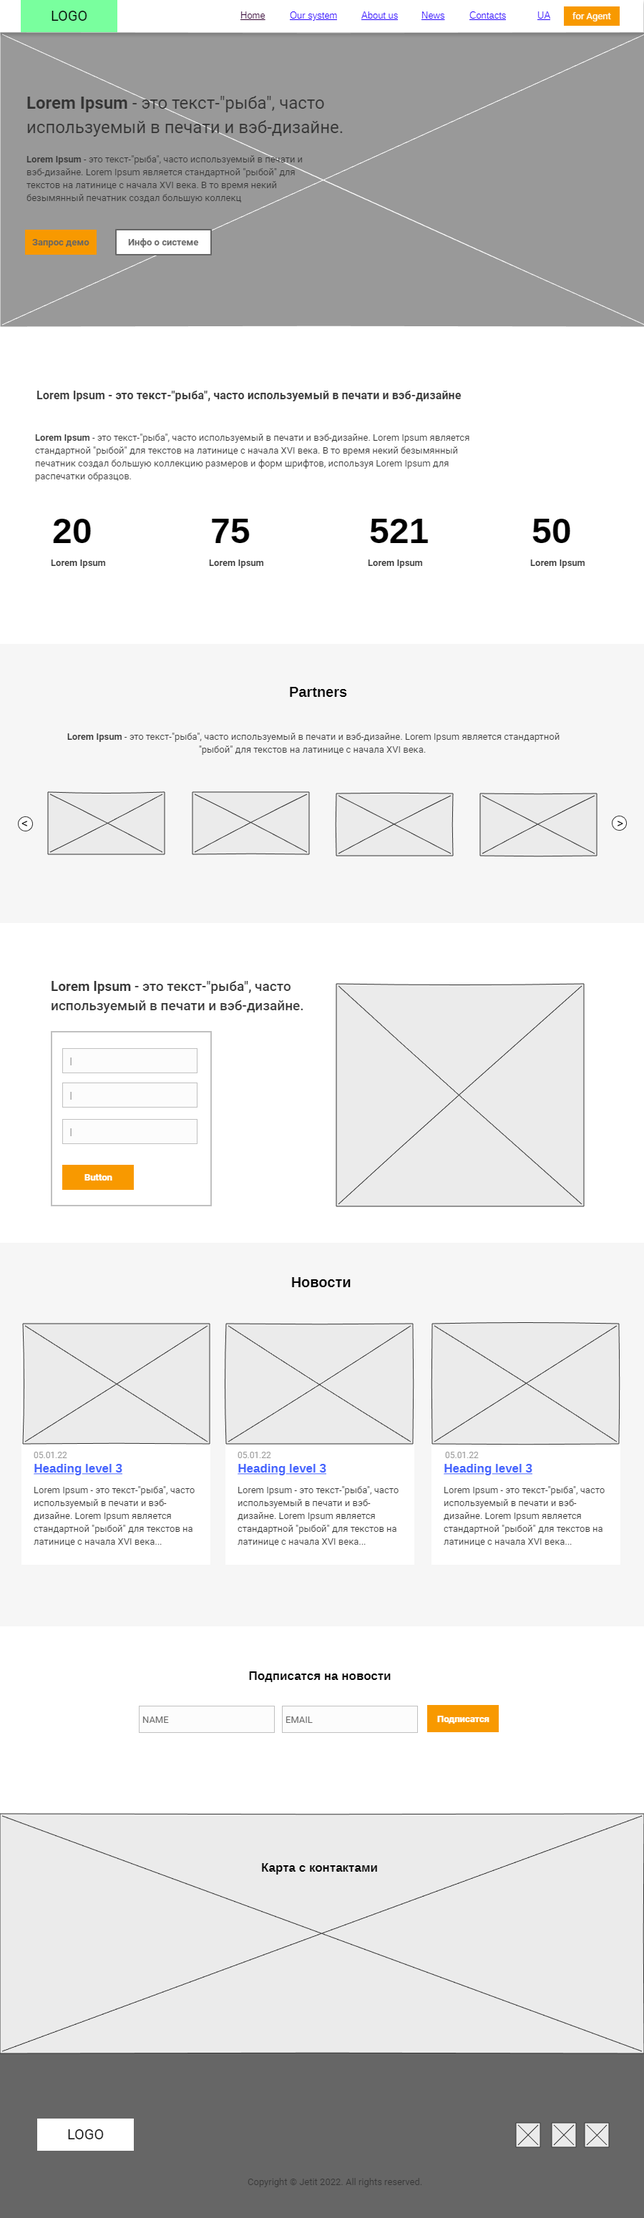
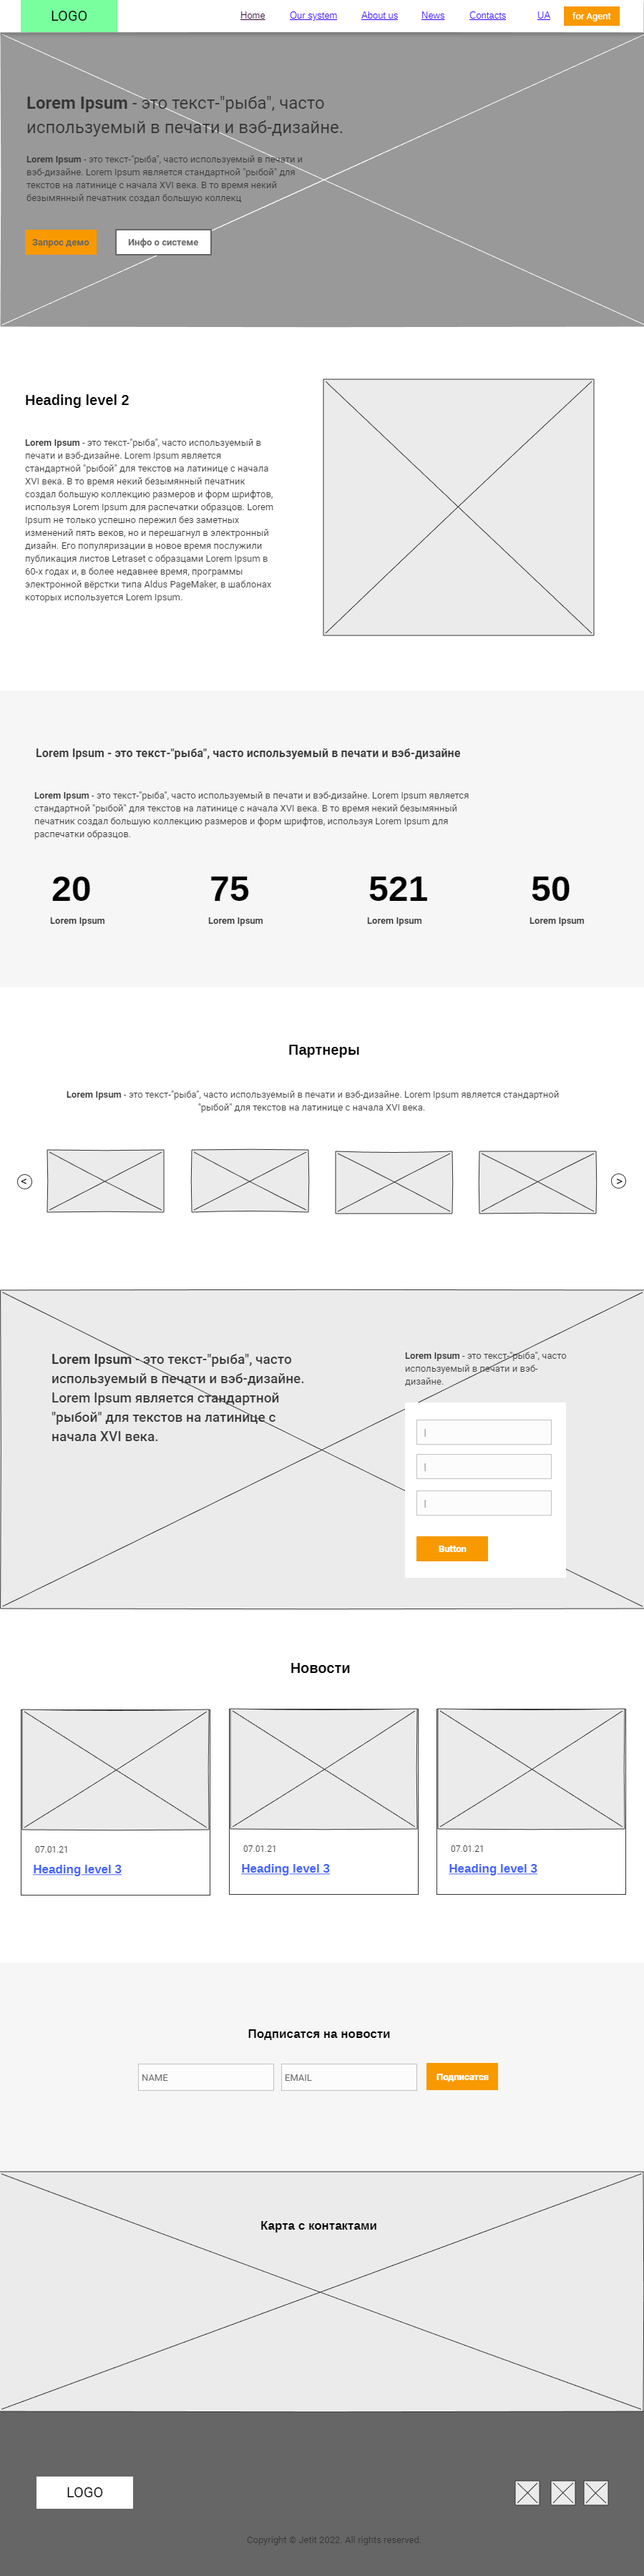
feat: add block about sustem

diff --git a/prototype/index.html b/prototype/index.html
@@ -1,2 +1,2 @@
 <html xmlns="http://www.w3.org/1999/xhtml" xmlns:p="http://www.evolus.vn/Namespace/Pencil" xmlns:html="http://www.w3.org/1999/xhtml"><head><meta http-equiv="Content-Type" content="text/html; charset=UTF-8" />
-<title>Прототип jetit.aero</title><link rel="stylesheet" href="Resources/SampleStyle.css" /></head><body><h1 id="documentTitle">Прототип jetit.aero</h1><p id="documentMetadata">Exported at: Fri Jan 21 2022 17:31:49 GMT+0200 (Восточная Европа, стандартное время)</p><div class="Page" id="site_structure_page"><h2>Site structure</h2><div class="ImageContainer"><img src="pages\site_structure.png" width="NaN" height="NaN" usemap="#map_site_structure" /></div><map name="map_site_structure"><area shape="rect" coords="552,292,657,347" href="#about_us__page" title="Go to page 'About us '" /><area shape="rect" coords="114,295,219,350" href="#home_page" title="Go to page 'Home'" /><area shape="rect" coords="997,292,1102,347" href="#contacts_page" title="Go to page 'Contacts'" /><area shape="rect" coords="328,292,433,347" href="#our_system_page" title="Go to page 'Our system'" /><area shape="rect" coords="782,292,887,347" href="#news_page" title="Go to page 'News'" /></map></div><div class="Page" id="home_page"><h2>Home</h2><div class="ImageContainer"><img src="pages\home.png" width="NaN" height="NaN" usemap="#map_home" /></div><map name="map_home"><area shape="rect" coords="656,13,707,31" href="#contacts_page" title="Go to page 'Contacts'" /><area shape="rect" coords="589,13,622,31" href="#news_page" title="Go to page 'News'" /><area shape="rect" coords="505,13,556,31" href="#about_us__page" title="Go to page 'About us '" /><area shape="rect" coords="405,13,471,31" href="#our_system_page" title="Go to page 'Our system'" /><area shape="rect" coords="162,321,295,356" href="#our_system_page" title="Go to page 'Our system'" /></map></div><div class="Page" id="our_system_page"><h2>Our system</h2><div class="ImageContainer"><img src="pages\our_system.png" width="NaN" height="NaN" usemap="#map_our_system" /></div><map name="map_our_system"><area shape="rect" coords="656,13,707,31" href="#contacts_page" title="Go to page 'Contacts'" /><area shape="rect" coords="589,13,622,31" href="#news_page" title="Go to page 'News'" /><area shape="rect" coords="504,13,555,31" href="#about_us__page" title="Go to page 'About us '" /><area shape="rect" coords="335,13,370,31" href="#home_page" title="Go to page 'Home'" /></map></div><div class="Page" id="about_us__page"><h2>About us </h2><div class="ImageContainer"><img src="pages\about_us_.png" width="NaN" height="NaN" usemap="#map_about_us_" /></div><map name="map_about_us_"><area shape="rect" coords="656,13,707,31" href="#contacts_page" title="Go to page 'Contacts'" /><area shape="rect" coords="589,13,622,31" href="#news_page" title="Go to page 'News'" /><area shape="rect" coords="335,13,370,31" href="#home_page" title="Go to page 'Home'" /><area shape="rect" coords="404,13,470,31" href="#our_system_page" title="Go to page 'Our system'" /></map></div><div class="Page" id="news_page"><h2>News</h2><div class="ImageContainer"><img src="pages\news.png" width="NaN" height="NaN" usemap="#map_news" /></div><map name="map_news"><area shape="rect" coords="656,13,707,31" href="#contacts_page" title="Go to page 'Contacts'" /><area shape="rect" coords="505,13,556,31" href="#about_us__page" title="Go to page 'About us '" /><area shape="rect" coords="336,13,371,31" href="#home_page" title="Go to page 'Home'" /><area shape="rect" coords="405,13,471,31" href="#our_system_page" title="Go to page 'Our system'" /></map></div><div class="Page" id="contacts_page"><h2>Contacts</h2><div class="ImageContainer"><img src="pages\contacts.png" width="NaN" height="NaN" usemap="#map_contacts" /></div><map name="map_contacts"><area shape="rect" coords="589,13,622,31" href="#news_page" title="Go to page 'News'" /><area shape="rect" coords="504,13,555,31" href="#about_us__page" title="Go to page 'About us '" /><area shape="rect" coords="335,13,370,31" href="#home_page" title="Go to page 'Home'" /><area shape="rect" coords="404,13,470,31" href="#our_system_page" title="Go to page 'Our system'" /></map></div></body></html>
+<title>Прототип jetit.aero</title><link rel="stylesheet" href="Resources/SampleStyle.css" /></head><body><h1 id="documentTitle">Прототип jetit.aero</h1><p id="documentMetadata">Exported at: Sun Jan 23 2022 00:50:08 GMT+0200 (Восточная Европа, стандартное время)</p><div class="Page" id="site_structure_page"><h2>Site structure</h2><div class="ImageContainer"><img src="pages\site_structure.png" width="NaN" height="NaN" usemap="#map_site_structure" /></div><map name="map_site_structure"><area shape="rect" coords="552,292,657,347" href="#about_us__page" title="Go to page 'About us '" /><area shape="rect" coords="114,295,219,350" href="#home_page" title="Go to page 'Home'" /><area shape="rect" coords="997,292,1102,347" href="#contacts_page" title="Go to page 'Contacts'" /><area shape="rect" coords="328,292,433,347" href="#our_system_page" title="Go to page 'Our system'" /><area shape="rect" coords="782,292,887,347" href="#news_page" title="Go to page 'News'" /></map></div><div class="Page" id="home_page"><h2>Home</h2><div class="ImageContainer"><img src="pages\home.png" width="NaN" height="NaN" usemap="#map_home" /></div><map name="map_home"><area shape="rect" coords="656,13,707,31" href="#contacts_page" title="Go to page 'Contacts'" /><area shape="rect" coords="589,13,622,31" href="#news_page" title="Go to page 'News'" /><area shape="rect" coords="505,13,556,31" href="#about_us__page" title="Go to page 'About us '" /><area shape="rect" coords="405,13,471,31" href="#our_system_page" title="Go to page 'Our system'" /><area shape="rect" coords="162,321,295,356" href="#our_system_page" title="Go to page 'Our system'" /></map></div><div class="Page" id="our_system_page"><h2>Our system</h2><div class="ImageContainer"><img src="pages\our_system.png" width="NaN" height="NaN" usemap="#map_our_system" /></div><map name="map_our_system"><area shape="rect" coords="656,13,707,31" href="#contacts_page" title="Go to page 'Contacts'" /><area shape="rect" coords="589,13,622,31" href="#news_page" title="Go to page 'News'" /><area shape="rect" coords="504,13,555,31" href="#about_us__page" title="Go to page 'About us '" /><area shape="rect" coords="335,13,370,31" href="#home_page" title="Go to page 'Home'" /></map></div><div class="Page" id="about_us__page"><h2>About us </h2><div class="ImageContainer"><img src="pages\about_us_.png" width="NaN" height="NaN" usemap="#map_about_us_" /></div><map name="map_about_us_"><area shape="rect" coords="656,13,707,31" href="#contacts_page" title="Go to page 'Contacts'" /><area shape="rect" coords="589,13,622,31" href="#news_page" title="Go to page 'News'" /><area shape="rect" coords="335,13,370,31" href="#home_page" title="Go to page 'Home'" /><area shape="rect" coords="404,13,470,31" href="#our_system_page" title="Go to page 'Our system'" /></map></div><div class="Page" id="news_page"><h2>News</h2><div class="ImageContainer"><img src="pages\news.png" width="NaN" height="NaN" usemap="#map_news" /></div><map name="map_news"><area shape="rect" coords="656,13,707,31" href="#contacts_page" title="Go to page 'Contacts'" /><area shape="rect" coords="505,13,556,31" href="#about_us__page" title="Go to page 'About us '" /><area shape="rect" coords="336,13,371,31" href="#home_page" title="Go to page 'Home'" /><area shape="rect" coords="405,13,471,31" href="#our_system_page" title="Go to page 'Our system'" /></map></div><div class="Page" id="contacts_page"><h2>Contacts</h2><div class="ImageContainer"><img src="pages\contacts.png" width="NaN" height="NaN" usemap="#map_contacts" /></div><map name="map_contacts"><area shape="rect" coords="589,13,622,31" href="#news_page" title="Go to page 'News'" /><area shape="rect" coords="504,13,555,31" href="#about_us__page" title="Go to page 'About us '" /><area shape="rect" coords="335,13,370,31" href="#home_page" title="Go to page 'Home'" /><area shape="rect" coords="404,13,470,31" href="#our_system_page" title="Go to page 'Our system'" /></map></div></body></html>
